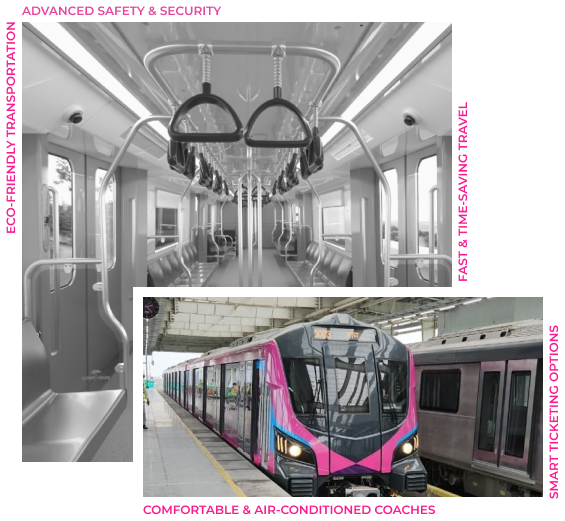
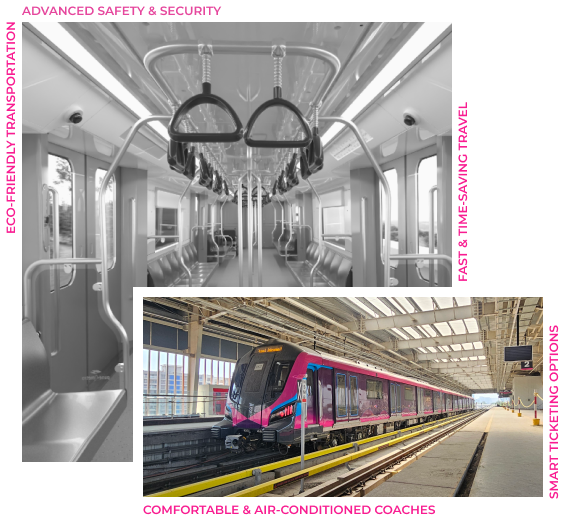
fix: update image container styling in AboutSection component

Changed region(s): [[0.2407, 0.5528, 0.9628, 0.952]]

diff --git a/resources/js/components/landing/AboutSection.tsx b/resources/js/components/landing/AboutSection.tsx
@@ -11,7 +11,7 @@ export default function AboutSection() {
 
                     {/* ── Left: Image ── */}
                     <div className={`transition-all duration-700 ${inView ? 'opacity-100 translate-x-0' : 'opacity-0 -translate-x-10'}`}>
-                        <div className="rounded-xl shadow-lg">
+                        <div className="">
                             <img
                                 src="/landing/metro-interior.png"
                                 alt="Metro Interior"